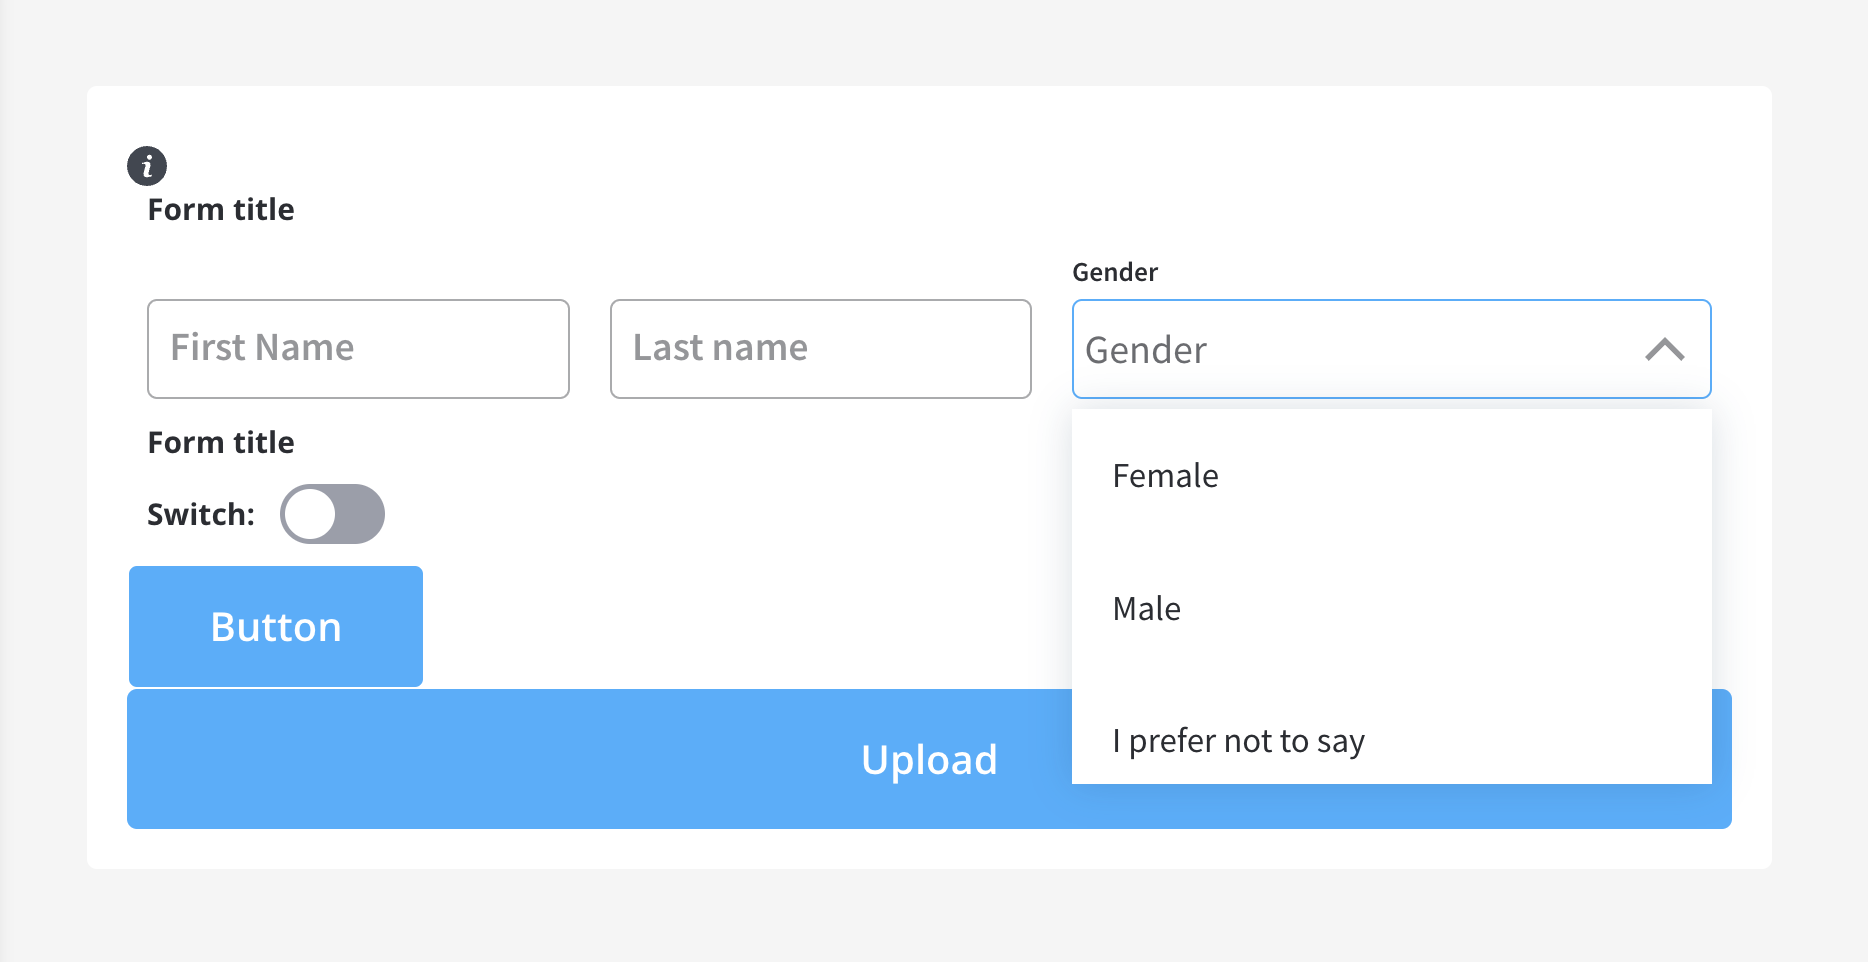
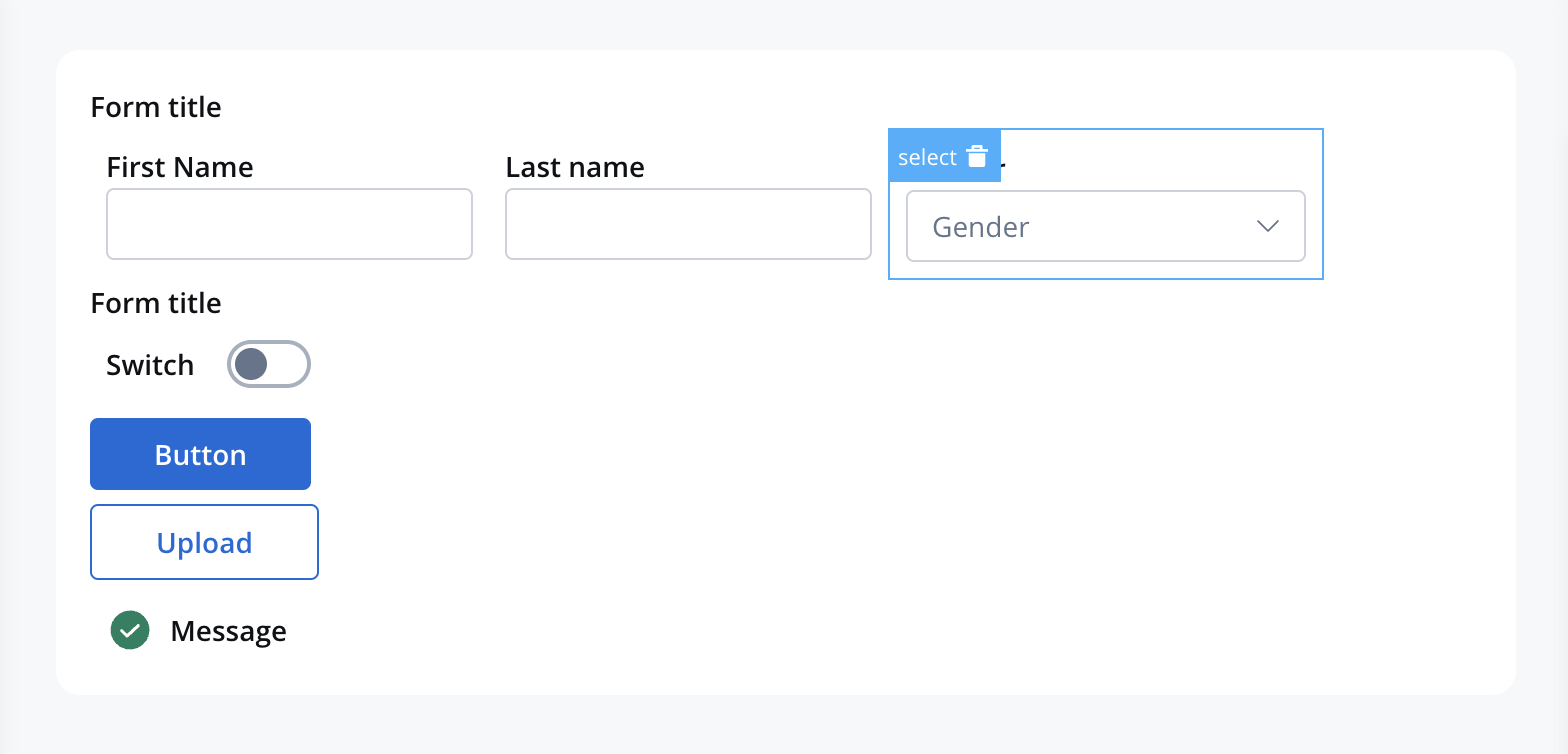
updates

diff --git a/release-notes/v3.0.0-january-2023/deployment-guidelines-v3.0.0.md b/release-notes/v3.0.0-january-2023/deployment-guidelines-v3.0.0.md
@@ -14,17 +14,17 @@ After updating to **3.0.0** FLOWX.AI release, importing old processes definition
 
 | :ballot_box_with_check:        | 3.0.0     | 2.14.0   | 2.13.0  | 2.12.0  | 2.11.0  | 2.10.0  | 2.9.0   | 2.8.1   | 2.8.0   | 2.7.0   | 2.6.0   | 2.5.0   | 2.4.0   | 2.3.0   | 2.2.0   | 2.1.0     |
 | ------------------------------ | --------- | -------- | ------- | ------- | ------- | ------- | ------- | ------- | ------- | ------- | ------- | ------- | ------- | ------- | ------- | --------- |
-| **Process engine**             | **2.0.3** | 0.4.104  | 0.4.95  | 0.4.90  | 0.4.83  | 0.4.60  | 0.4.49  | 0.4.44  | 0.4.42  | 0.4.42  | 0.4.36  | 0.4.29  | 0.4.22  | 0.4.21  | 0.4.18  | 0.4.13    |
-| **Designer**                   |           | 2.78.4-1 | 2.63.6  | 2.60.7  | 2.48.9  | 2.39.2  | 2.33.0  | 2.28.1  | 2.24.2  | 2.23.0  | 2.19.2  | 2.18.2  | 2.17.4  | 2.15.2  | 2.14.4  | 2.11.2    |
+| **Process engine**             | **2.0.4** | 0.4.104  | 0.4.95  | 0.4.90  | 0.4.83  | 0.4.60  | 0.4.49  | 0.4.44  | 0.4.42  | 0.4.42  | 0.4.36  | 0.4.29  | 0.4.22  | 0.4.21  | 0.4.18  | 0.4.13    |
+| **Designer**                   | **3.0.3** | 2.78.4-1 | 2.63.6  | 2.60.7  | 2.48.9  | 2.39.2  | 2.33.0  | 2.28.1  | 2.24.2  | 2.23.0  | 2.19.2  | 2.18.2  | 2.17.4  | 2.15.2  | 2.14.4  | 2.11.2    |
 | **CMS Core**                   | **1.0.2** | 0.2.38   | 0.2.36  | 0.2.33  | 0.2.30  | 0.2.25  | 0.2.23  | 0.2.23  | 0.2.23  | 0.2.23  | 0.2.23  | 0.2.20  | 0.2.20  | 0.2.18  | 0.2.17  | 0.2.17    |
 | **Scheduler Core**             | **1.0.1** | 0.0.34   | 0.0.34  | 0.0.34  | 0.0.33  | 0.0.28  | 0.0.27  | 0.0.27  | 0.0.27  | 0.0.27  | 0.0.27  | 0.0.24  | 0.0.24  | 0.0.23  | 0.0.23  | 0.0.23    |
-| **flowx-process-renderer**     |           | 2.78.4-1 | 2.63.6  | 2.60.7  | 2.48.9  | 2.39.2  | 2.33.0  | 2.28.1  | 2.24.2  | 2.23.0  | 2.19.2  | 2.18.2  | 2.17.4  | 2.15.2  | 2.14.4  | 2.11.2    |
+| **flowx-process-renderer**     | **3.0.3** | 2.78.4-1 | 2.63.6  | 2.60.7  | 2.48.9  | 2.39.2  | 2.33.0  | 2.28.1  | 2.24.2  | 2.23.0  | 2.19.2  | 2.18.2  | 2.17.4  | 2.15.2  | 2.14.4  | 2.11.2    |
 | **iOS renderer**               | **2.0.0** | n/a      | n/a     | n/a     | n/a     | n/a     | n/a     | n/a     | n/a     | n/a     | n/a     | n/a     | n/a     | n/a     | n/a     | n/a       |
-| **Android renderer**           |           |          |         |         |         |         |         |         |         |         |         |         |         |         |         |           |
-| **flowx-web-components**       |           | 2.78.4-1 | 2.63.6  | 2.60.7  | 0.2.10  | 0.2.10  | 0.2.10  | 0.2.6   | 0.2.6   | 0.2.6   | 0.2.6   | 0.2.6   | 0.2.6   | 0.2.6   | 0.2.5   | 0.2.4     |
-| **Admin**                      | **2.0.1** | 0.3.119  | 0.3.103 | 0.3.92  | 0.3.81  | 0.3.60  | 0.3.55  | 0.3.47  | 0.3.43  | 0.3.40  | 0.3.36  | 0.3.34  | 0.3.29  | 0.3.23  | 0.3.21  | 0.3.13    |
+| **Android renderer**           | **2.0.1** | n/a      | n/a     | n/a     | n/a     | n/a     | n/a     | n/a     | n/a     | n/a     | n/a     | n/a     | n/a     | n/a     | n/a     | n/a       |
+| **flowx-web-components**       | **3.0.3** | 2.78.4-1 | 2.63.6  | 2.60.7  | 0.2.10  | 0.2.10  | 0.2.10  | 0.2.6   | 0.2.6   | 0.2.6   | 0.2.6   | 0.2.6   | 0.2.6   | 0.2.6   | 0.2.5   | 0.2.4     |
+| **Admin**                      | **2.0.3** | 0.3.119  | 0.3.103 | 0.3.92  | 0.3.81  | 0.3.60  | 0.3.55  | 0.3.47  | 0.3.43  | 0.3.40  | 0.3.36  | 0.3.34  | 0.3.29  | 0.3.23  | 0.3.21  | 0.3.13    |
 | **Notification Plugin**        | **2.0.1** | 1.0.206  | 1.0.206 | 1.0.206 | 1.0.205 | 1.0.200 | 1.0.198 | 1.0.198 | 1.0.197 | 1.0.194 | 1.0.194 | 1.0.191 | 1.0.191 | 1.0.190 | 1.0.190 | 1.0.186-1 |
-| **Document Plugin**            | **2.0.1** | 1.0.53   | 1.0.53  | 1.0.53  | 1.0.52  | 1.0.47  | 1.0.42  | 1.0.41  | 1.0.38  | 1.0.37  | 1.0.37  | 1.0.35  | 1.0.35  | 1.0.31  | 1.0.31  | 1.0.30    |
+| **Document Plugin**            | **2.0.2** | 1.0.53   | 1.0.53  | 1.0.53  | 1.0.52  | 1.0.47  | 1.0.42  | 1.0.41  | 1.0.38  | 1.0.37  | 1.0.37  | 1.0.35  | 1.0.35  | 1.0.31  | 1.0.31  | 1.0.30    |
 | **OCR Plugin**                 | 0.1.33    | 0.1.33   | 0.1.33  | 0.1.5   | 0.1.5   | 0.1.5   | 0.1.5   | 0.1.5   | 0.1.5   | 0.1.5   | 0.1.5   | 0.1.5   | 0.1.5   | 0.0.109 | 0.0.109 | 0.0.109   |
 | **License Core**               | **1.0.1** | 0.1.28   | 0.1.28  | 0.1.28  | 0.1.27  | 0.1.23  | 0.1.19  | 0.1.18  | 0.1.18  | 0.1.18  | 0.1.18  | 0.1.15  | 0.1.15  | 0.1.13  | 0.1.13  | 0.1.12    |
 | **Customer Management Plugin** | **0.2.1** | 0.1.28   | 0.1.28  | 0.1.28  | 0.1.27  | 0.1.23  | 0.1.22  | 0.1.22  | 0.1.22  | 0.1.22  | 0.1.22  | 0.1.20  | 0.1.20  | 0.1.18  | 0.1.18  | 0.1.18    |

diff --git a/docs/building-blocks/ui-designer/ui-component-types/form-elements/select-form-field.md b/docs/building-blocks/ui-designer/ui-component-types/form-elements/select-form-field.md
@@ -47,7 +47,7 @@ The available configuration options for this form element are:
 
 A FORM with a [layout](../../layout-configuration.md) direction of row warp and some inputs and a select element will look like this:
 
-![](../../img/select_form_field.png)
+![](../../img/select_form_field1.png)
 
 ### Example - Dynamic dropdowns
 
